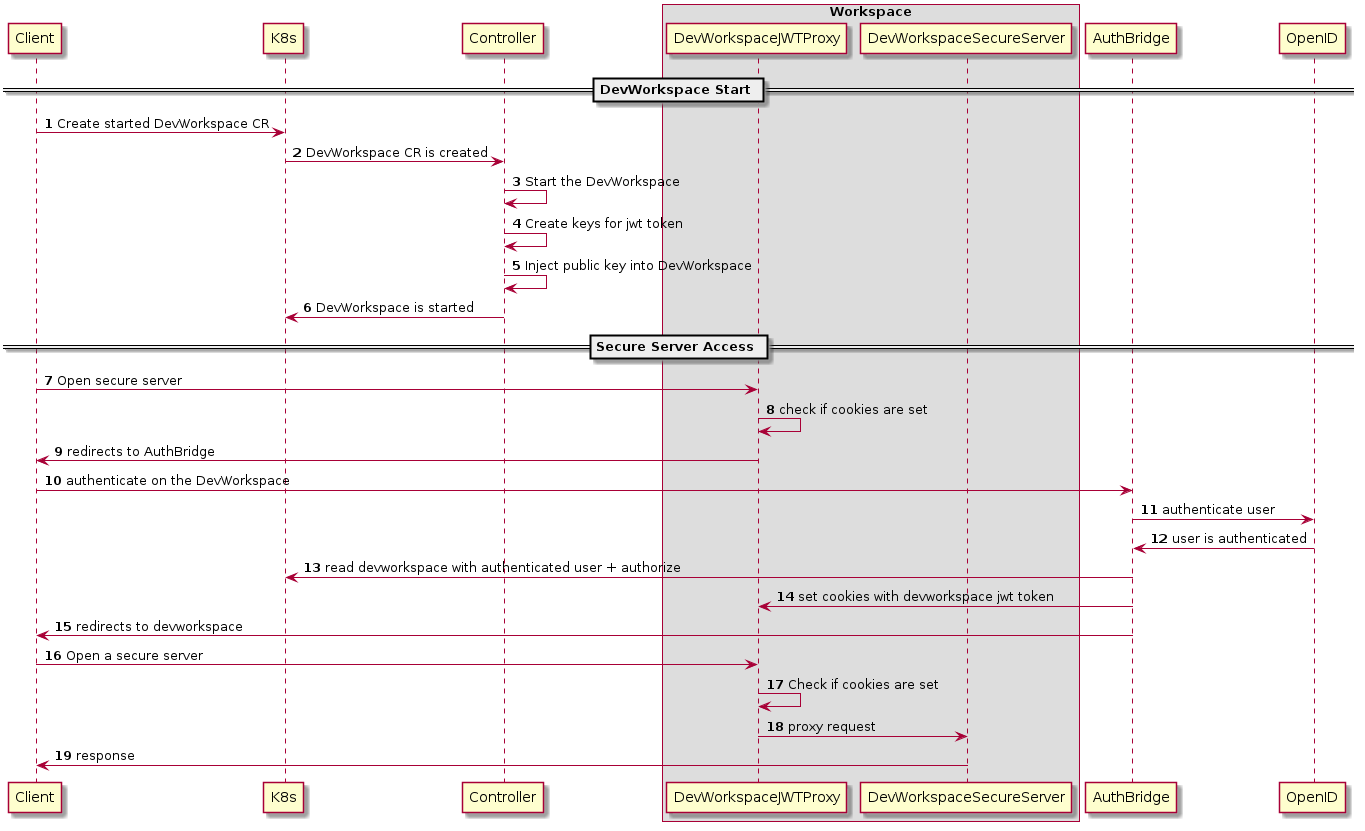
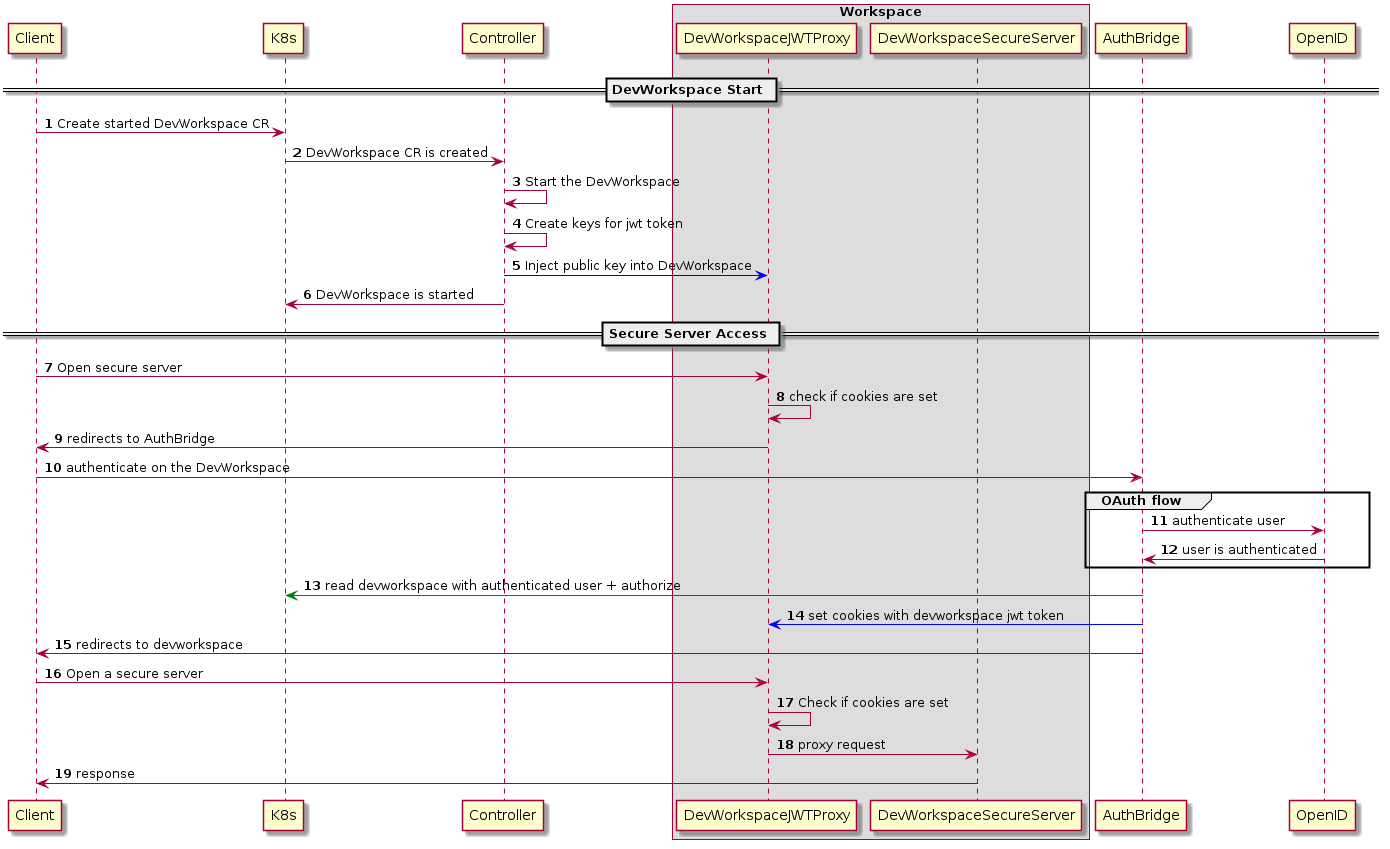
Add details for OAuth flow and access check
* Highlight where OAuth flow occurs in process
* Color steps that pass secrets in blue
* Color steps that check user authorization in green
* Add a few small notes to README.md

diff --git a/authentication-schemas/README.md b/authentication-schemas/README.md
@@ -2,7 +2,7 @@ This documents describes the alternatives which could be implemented for DevWork
 
 # Che Workspaces Servers Authentication
 
-Che Workspace Servers supports SSO(Single Sign-One) which means - user authenticate once on the main host and then user is automatically authenticated on workspaces hosts with loader.html + Che JWT proxy which do the SSO magic.
+Che Workspace Servers supports SSO(Single Sign-On) which means - user authenticate once on the main host and then user is automatically authenticated on workspaces hosts with loader.html + Che JWT proxy which do the SSO magic.
 
 ![](jwtproxy-current.png)
 
@@ -12,8 +12,12 @@ Che Workspace Servers supports SSO(Single Sign-One) which means - user authentic
 
 It's the mainly the same schema as Che Workspaces have difference here that DevWorkspace Operator should deploy additional component "AuthBridge" which will authorize requests and provide SSO.
 
+Pros:
+- Easier to configure (configure AuthBridge to manage OAuth flow)
+
 Cons:
-- everybody who is able to read DevWorkspace CR (or DevWorkspaceRouting CR) where jwtproxy is stoted - is able to access workspace, which mean we don't provide creator access only;
+- everybody who is able to read DevWorkspace CR (or DevWorkspaceRouting CR) where jwtproxy is stored - is able to access workspace, which mean we don't provide creator access only;
+- Need to manage getting secrets into a devworkspace (e.g. JWT Token)
 
 # DevWorkspaces Servers Authentication with OpenID
 
@@ -21,13 +25,14 @@ Cons:
 
 Pros:
 - no additional component is required;
+- No need to solve problem of getting secrets into devworkspaces
 
 Cons:
 - probably different clients should be registered on OpenID provider side with workspaces specific endpoints;
-- users should authenticate separately for each workspace. User will be asked if they rely that particular domain;
+  - Difficult to support arbitrary OAuth providers (we can create clients on OpenShift easily, otherwise it's hard.)
+- users should authenticate separately for each workspace. User will be asked if they trust that particular domain;
 
   \* we should be able to run everything on one host, and SSO could be implemented but that's not safe to do without additional authorization since OpenID token will be sent to workspace which may be fake just to steal token.
 
 # TODO:
-- Show more clearly on the diagram at which point OpenID provider is configured to be able to work with specific OpenID client;
 - Think more about Single Host mode, where AuthBridge and Workspaces live on the same cluster. Can it helps use to provide SSO with creator access only?
